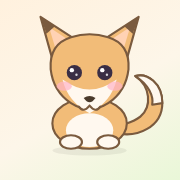
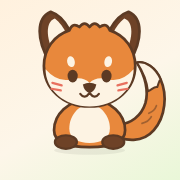
Redraw the fox in the kawaii style from the reference
The fox now carries the cues that style is built on: tall ears with dark
brown outer edges and cream insides, small fur tufts along the crown,
small dark eyes with a cream highlight sitting above each one rather than
inside it, short red cheek dashes instead of pink ovals, a cream muzzle
covering the lower face, dark paws, and a fuller tail with a cream tip.

The eyes differ enough from the kiwi's dots that the fox gets its own
renderer too, and the sunglasses move down to the fox's new eye line with
the kiwi keeping its offset.

Claude-Session: https://claude.ai/code/session_01GKCTeEFW4kYhF1b7yxURzv

diff --git a/app.js b/app.js
@@ -430,8 +430,8 @@ const ACCESSORY_TIERS = [
   {
     level: 12,
     label: "Solglasögon",
-    offset: { kiwi: [8, -24] },
-    markup: `<g transform="translate(101,74)">
+    offset: { kiwi: [-4, -26] },
+    markup: `<g transform="translate(101,84)">
       <ellipse cx="-20" cy="0" rx="11" ry="9" fill="#4a3f5c"/>
       <ellipse cx="20" cy="0" rx="11" ry="9" fill="#4a3f5c"/>
       <path d="M-9 -2 Q0 -9 9 -2" stroke="#4a3f5c" stroke-width="3" fill="none"/>
@@ -587,65 +587,101 @@ function renderKiwiSVG(mood, level) {
   </svg>`;
 }
 
-function foxMouthMarkup(mood) {
+const FOX_OUTLINE = "#5c3a24";
+const FOX_FUR = "#e8883c";
+const FOX_DARK = "#6e4227";
+const FOX_CREAM = "#fdf3e3";
+const FOX_SW = 3.2;
+
+// Räven har små mörka ögon med en ljusglimt ovanför, precis som i förlagan.
+function foxEyesMarkup(mood, cx1, cx2, cy) {
+  const shine = `
+    <ellipse cx="${cx1 - 2}" cy="${cy - 17}" rx="4.5" ry="6.5" fill="${FOX_CREAM}" transform="rotate(-12 ${cx1 - 2} ${cy - 17})"/>
+    <ellipse cx="${cx2 + 2}" cy="${cy - 17}" rx="4.5" ry="6.5" fill="${FOX_CREAM}" transform="rotate(12 ${cx2 + 2} ${cy - 17})"/>`;
+
+  if (mood === "love") {
+    const heart = (cx) => `
+      <path d="M${cx} ${cy + 7} C${cx - 9} ${cy - 2}, ${cx - 3} ${cy - 11}, ${cx} ${cy - 5}
+               C${cx + 3} ${cy - 11}, ${cx + 9} ${cy - 2}, ${cx} ${cy + 7} Z" fill="#e8455f"/>`;
+    return shine + heart(cx1) + heart(cx2);
+  }
   if (mood === "yum") {
-    return `<ellipse cx="100" cy="128" rx="8" ry="7" fill="#a5445c"/>
-            <ellipse cx="100" cy="130" rx="4.5" ry="3.5" fill="#ff8fa8"/>`;
+    return shine + `
+      <path d="M${cx1 - 7} ${cy + 3} q7 -10 14 0" stroke="${FOX_OUTLINE}" stroke-width="3.4" fill="none" stroke-linecap="round"/>
+      <path d="M${cx2 - 7} ${cy + 3} q7 -10 14 0" stroke="${FOX_OUTLINE}" stroke-width="3.4" fill="none" stroke-linecap="round"/>`;
   }
   if (mood === "sad") {
-    return `<path d="M91 130 q9 -8 18 0" stroke="${OUTLINE}" stroke-width="2.8" fill="none" stroke-linecap="round"/>`;
+    return `
+      <ellipse cx="${cx1}" cy="${cy}" rx="6" ry="7" fill="${FOX_OUTLINE}"/>
+      <ellipse cx="${cx2}" cy="${cy}" rx="6" ry="7" fill="${FOX_OUTLINE}"/>
+      <path d="M${cx1 - 8} ${cy - 13} q8 -5 15 -1" stroke="${FOX_OUTLINE}" stroke-width="3" fill="none" stroke-linecap="round"/>
+      <path d="M${cx2 - 7} ${cy - 14} q7 -4 15 1" stroke="${FOX_OUTLINE}" stroke-width="3" fill="none" stroke-linecap="round"/>
+      <circle cx="${cx2 + 7}" cy="${cy + 12}" r="3" fill="#bfe4ff"/>`;
   }
-  return `<path d="M100 124 q-6 9 -12 2 M100 124 q6 9 12 2" stroke="${OUTLINE}" stroke-width="2.8" fill="none" stroke-linecap="round"/>`;
+  return shine + `
+    <ellipse cx="${cx1}" cy="${cy}" rx="6" ry="7.5" fill="${FOX_OUTLINE}"/>
+    <ellipse cx="${cx2}" cy="${cy}" rx="6" ry="7.5" fill="${FOX_OUTLINE}"/>`;
+}
+
+function foxMouthMarkup(mood) {
+  if (mood === "yum") {
+    return `<path d="M88 106 Q100 122 112 106 Z" fill="#c4556a" stroke="${FOX_OUTLINE}" stroke-width="2.4" stroke-linejoin="round"/>`;
+  }
+  if (mood === "sad") {
+    return `<path d="M92 112 q8 -7 16 0" stroke="${FOX_OUTLINE}" stroke-width="2.6" fill="none" stroke-linecap="round"/>`;
+  }
+  return `<path d="M100 104 q-6 8 -11 1 M100 104 q6 8 11 1" stroke="${FOX_OUTLINE}" stroke-width="2.6" fill="none" stroke-linecap="round"/>`;
 }
 
 function renderFoxSVG(mood, level) {
-  // Svansen är ett tjockt streck med runda ändar, så den blir luddig och mjuk.
-  const tailPath = "M128 146 Q172 142 172 110 Q172 88 158 84";
   return `
   <svg viewBox="0 0 200 180" xmlns="http://www.w3.org/2000/svg">
-    <ellipse cx="100" cy="172" rx="44" ry="6" fill="#000" opacity="0.06"/>
+    <ellipse cx="100" cy="172" rx="42" ry="5" fill="#000" opacity="0.06"/>
 
-    <path d="${tailPath}" stroke="${OUTLINE}" stroke-width="40" fill="none" stroke-linecap="round"/>
-    <path d="${tailPath}" stroke="#ef9f52" stroke-width="35" fill="none" stroke-linecap="round"/>
-    <path d="M166 96 Q172 88 159 84" stroke="#fff8ef" stroke-width="33" fill="none" stroke-linecap="round"/>
+    <!-- luddig svans med ljus spets -->
+    <path d="M124 150 C142 164 164 162 176 148 C190 132 192 106 184 88 C178 74 166 66 156 68
+             C166 84 170 102 166 116 C161 132 148 140 136 141 C129 142 126 145 124 150 Z"
+          fill="${FOX_FUR}" stroke="${FOX_OUTLINE}" stroke-width="${FOX_SW}" stroke-linejoin="round"/>
+    <path d="M184 88 C178 74 166 66 156 68 C164 80 168 92 169 102
+             C174 100 176 96 180 97 C182 92 182 89 184 88 Z"
+          fill="${FOX_CREAM}" stroke="${FOX_OUTLINE}" stroke-width="2.4" stroke-linejoin="round"/>
+    <path d="M170 128 q7 -3 9 -9 M162 140 q8 -2 11 -8" stroke="${FOX_OUTLINE}" stroke-width="2" fill="none" stroke-linecap="round" opacity="0.5"/>
 
-    <!-- stora rundade öron med mörka toppar -->
-    <path d="M52 58 Q38 20 62 14 Q84 24 88 46 Q68 48 52 58 Z"
-          fill="#ef9f52" stroke="${OUTLINE}" stroke-width="${SW}" stroke-linejoin="round"/>
-    <path d="M62 14 Q44 20 44 36 Q54 26 68 24 Z" fill="#6b5340"/>
-    <path d="M60 50 Q54 30 66 26 Q78 32 78 44 Q68 44 60 50 Z" fill="#ffd2b4"/>
-    <path d="M148 58 Q162 20 138 14 Q116 24 112 46 Q132 48 148 58 Z"
-          fill="#ef9f52" stroke="${OUTLINE}" stroke-width="${SW}" stroke-linejoin="round"/>
-    <path d="M138 14 Q156 20 156 36 Q146 26 132 24 Z" fill="#6b5340"/>
-    <path d="M140 50 Q146 30 134 26 Q122 32 122 44 Q132 44 140 50 Z" fill="#ffd2b4"/>
+    <!-- stora öron med mörka ytterkanter -->
+    <path d="M52 66 C38 42 36 16 54 8 C72 14 82 38 86 60 Z"
+          fill="${FOX_DARK}" stroke="${FOX_OUTLINE}" stroke-width="${FOX_SW}" stroke-linejoin="round"/>
+    <path d="M58 58 C48 38 48 20 59 16 C70 24 77 42 80 57 Z" fill="${FOX_CREAM}"/>
+    <path d="M148 66 C162 42 164 16 146 8 C128 14 118 38 114 60 Z"
+          fill="${FOX_DARK}" stroke="${FOX_OUTLINE}" stroke-width="${FOX_SW}" stroke-linejoin="round"/>
+    <path d="M142 58 C152 38 152 20 141 16 C130 24 123 42 120 57 Z" fill="${FOX_CREAM}"/>
 
-    <!-- kropp med mörka rävstrumpor -->
-    <ellipse cx="100" cy="146" rx="42" ry="27" fill="#ef9f52" stroke="${OUTLINE}" stroke-width="${SW}"/>
-    <ellipse cx="100" cy="152" rx="26" ry="18" fill="#fff8ef"/>
-    <ellipse cx="78" cy="164" rx="13" ry="8" fill="#6b5340" stroke="${OUTLINE}" stroke-width="${SW}"/>
-    <ellipse cx="122" cy="164" rx="13" ry="8" fill="#6b5340" stroke="${OUTLINE}" stroke-width="${SW}"/>
+    <!-- sittande kropp med mörka tassar -->
+    <path d="M100 112 C126 112 142 130 142 148 C142 162 126 168 100 168 C74 168 58 162 58 148 C58 130 74 112 100 112 Z"
+          fill="${FOX_FUR}" stroke="${FOX_OUTLINE}" stroke-width="${FOX_SW}" stroke-linejoin="round"/>
+    <path d="M100 118 C114 118 124 132 124 146 C124 158 114 163 100 163 C86 163 76 158 76 146 C76 132 86 118 100 118 Z"
+          fill="${FOX_CREAM}"/>
+    <ellipse cx="72" cy="162" rx="13" ry="8" fill="${FOX_DARK}" stroke="${FOX_OUTLINE}" stroke-width="2.6"/>
+    <ellipse cx="128" cy="162" rx="13" ry="8" fill="${FOX_DARK}" stroke="${FOX_OUTLINE}" stroke-width="2.6"/>
 
-    <!-- huvud som smalnar av till en lång mjuk nos -->
-    <path d="M100 24
-             C134 24 154 44 154 70
-             C154 84 149 94 140 100
-             C132 105 124 108 117 112
-             C113 122 108 134 100 140
-             C92 134 87 122 83 112
-             C76 108 68 105 60 100
-             C51 94 46 84 46 70
-             C46 44 66 24 100 24 Z"
-          fill="#ef9f52" stroke="${OUTLINE}" stroke-width="${SW}" stroke-linejoin="round"/>
+    <!-- huvud med små pälstoppar -->
+    <path d="M100 26 Q106 18 112 26 Q120 20 124 30 C142 36 154 52 154 72
+             C154 98 132 120 100 120 C68 120 46 98 46 72
+             C46 52 58 36 76 30 Q80 20 88 26 Q94 18 100 26 Z"
+          fill="${FOX_FUR}" stroke="${FOX_OUTLINE}" stroke-width="${FOX_SW}" stroke-linejoin="round"/>
 
-    <!-- vitt nosparti hela vägen ut på nosen -->
-    <path d="M68 98 Q100 114 132 98 Q131 122 113 135 Q100 143 87 135 Q69 122 68 98 Z" fill="#fff8ef"/>
-    <path d="M56 80 Q60 56 78 46 Q64 66 62 86 Z" fill="#fff8ef" opacity="0.3"/>
+    <!-- ljust nosparti över hela nedre ansiktet -->
+    <path d="M48 76 Q62 92 78 88 Q92 84 100 92 Q108 84 122 88 Q138 92 152 76
+             C152 100 130 120 100 120 C70 120 48 100 48 76 Z"
+          fill="${FOX_CREAM}"/>
 
-    ${blushMarkup(64, 136, 92)}
-    ${eyesMarkup(mood, 80, 120, 74)}
+    <!-- streckade kinder -->
+    <path d="M56 92 l11 3 M55 99 l11 2" stroke="#e8705f" stroke-width="2.6" stroke-linecap="round"/>
+    <path d="M144 92 l-11 3 M145 99 l-11 2" stroke="#e8705f" stroke-width="2.6" stroke-linecap="round"/>
 
-    <!-- liten rundad nostryne längst ut -->
-    <path d="M92 112 Q100 108 108 112 Q106 121 100 122 Q94 121 92 112 Z" fill="#4a3a32"/>
+    ${foxEyesMarkup(mood, 80, 120, 84)}
+
+    <!-- liten mörk nos -->
+    <path d="M92 94 Q100 90 108 94 Q106 103 100 104 Q94 103 92 94 Z" fill="${FOX_OUTLINE}"/>
     ${foxMouthMarkup(mood)}
     ${accessoryMarkup(level, "fox")}
   </svg>`;
